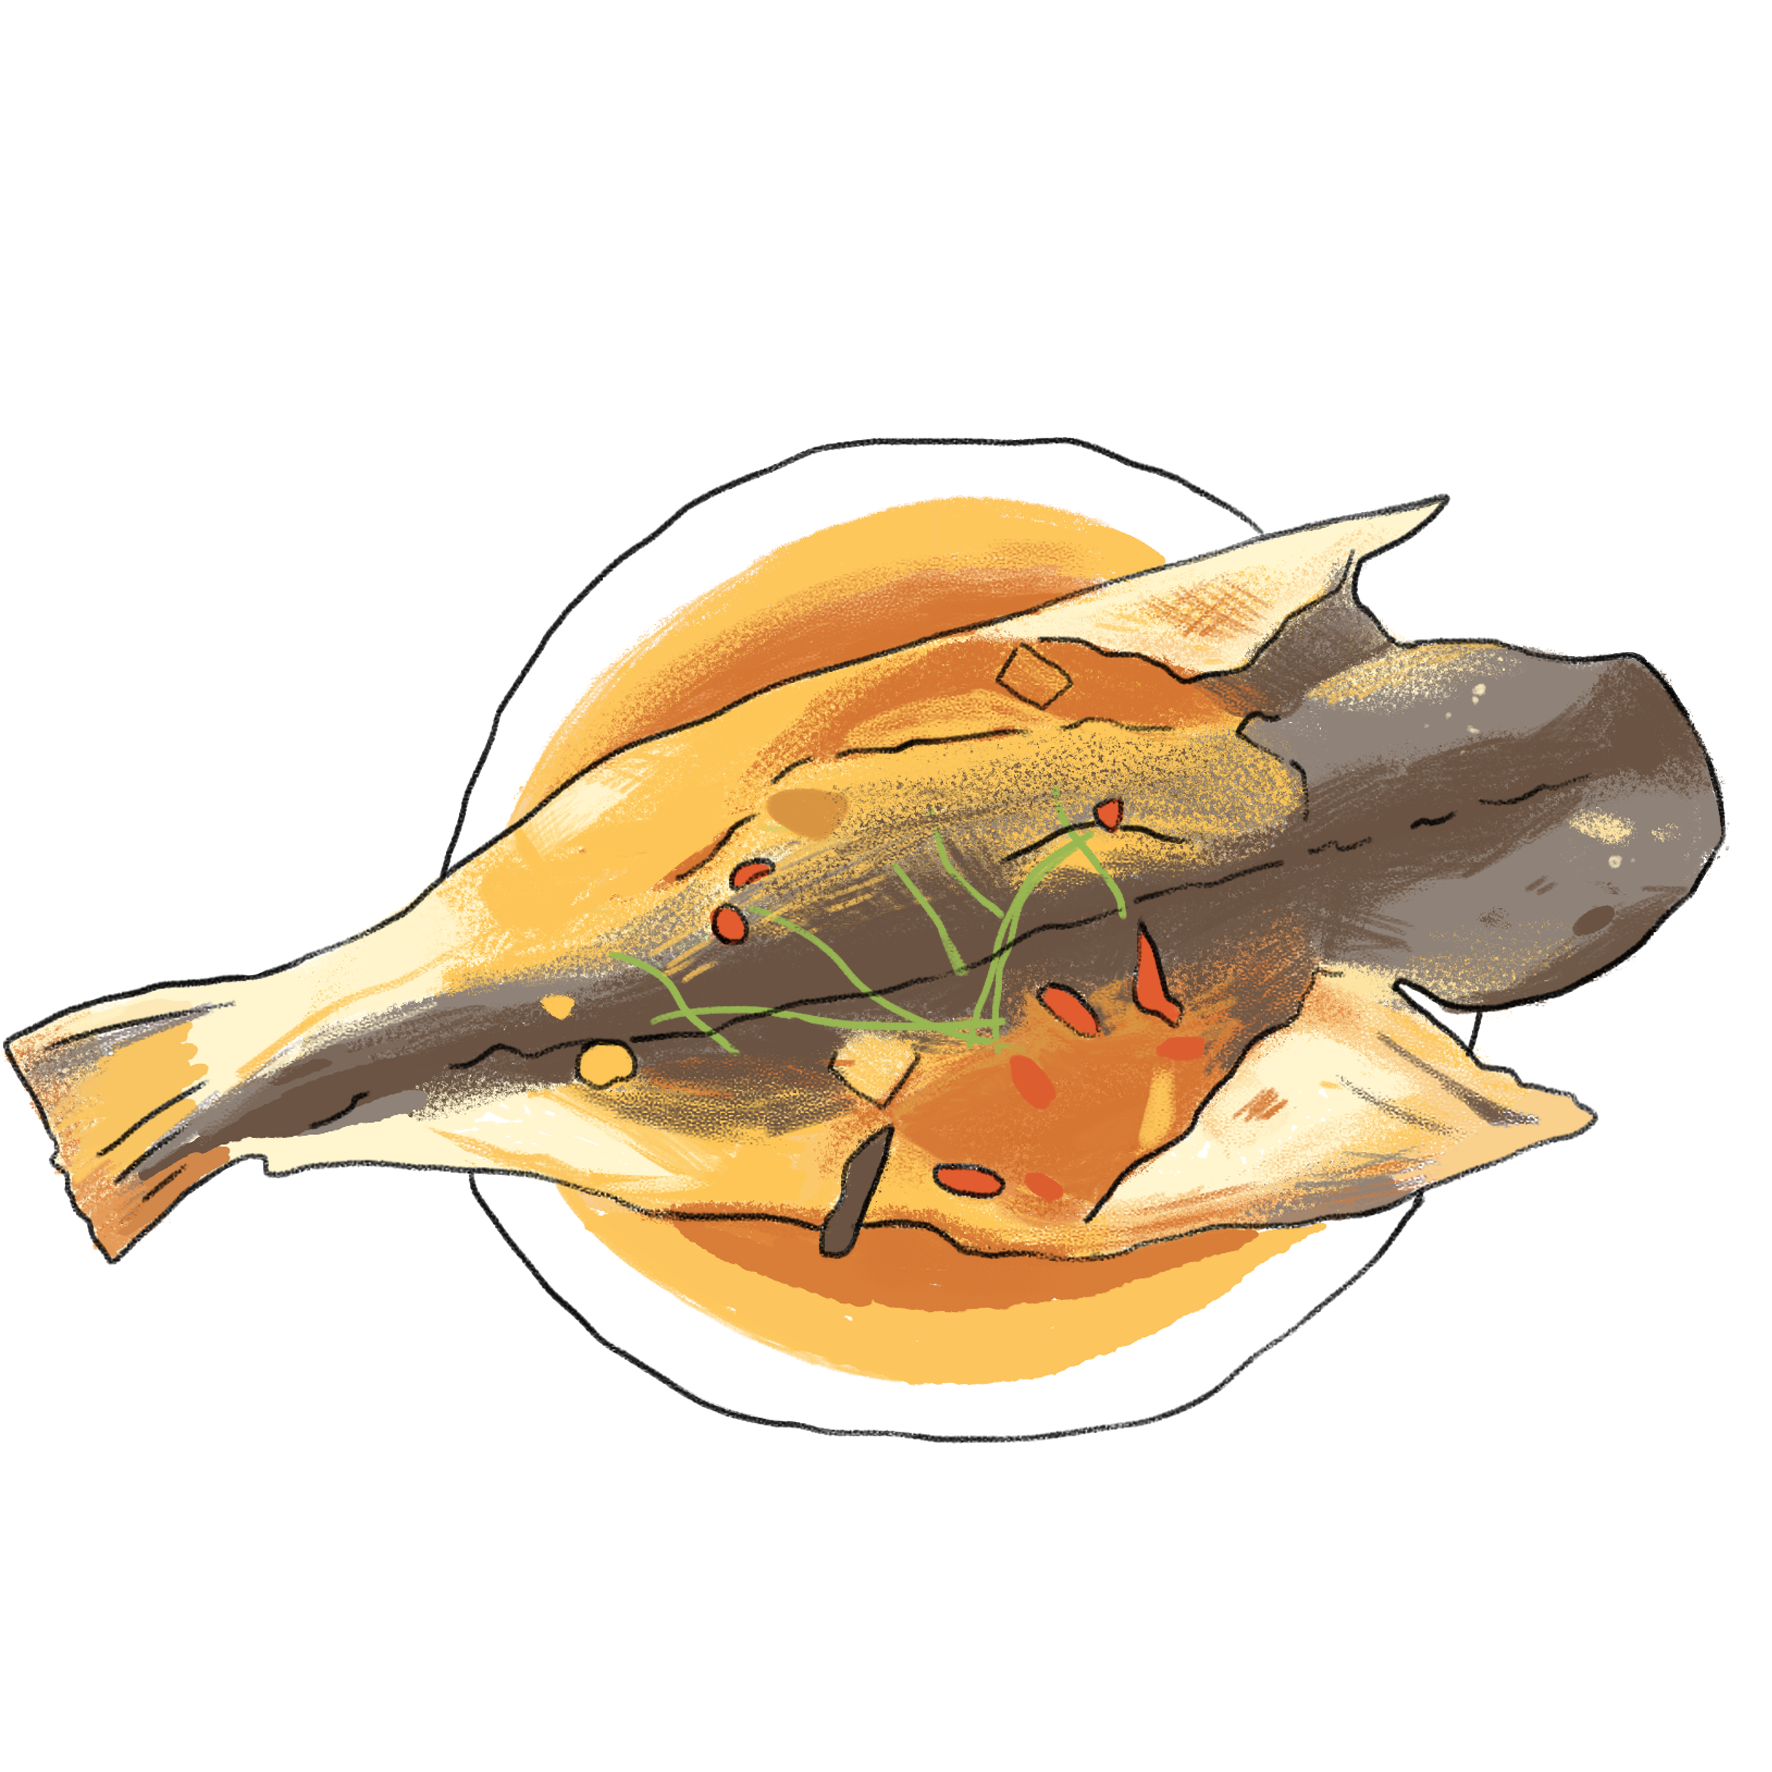
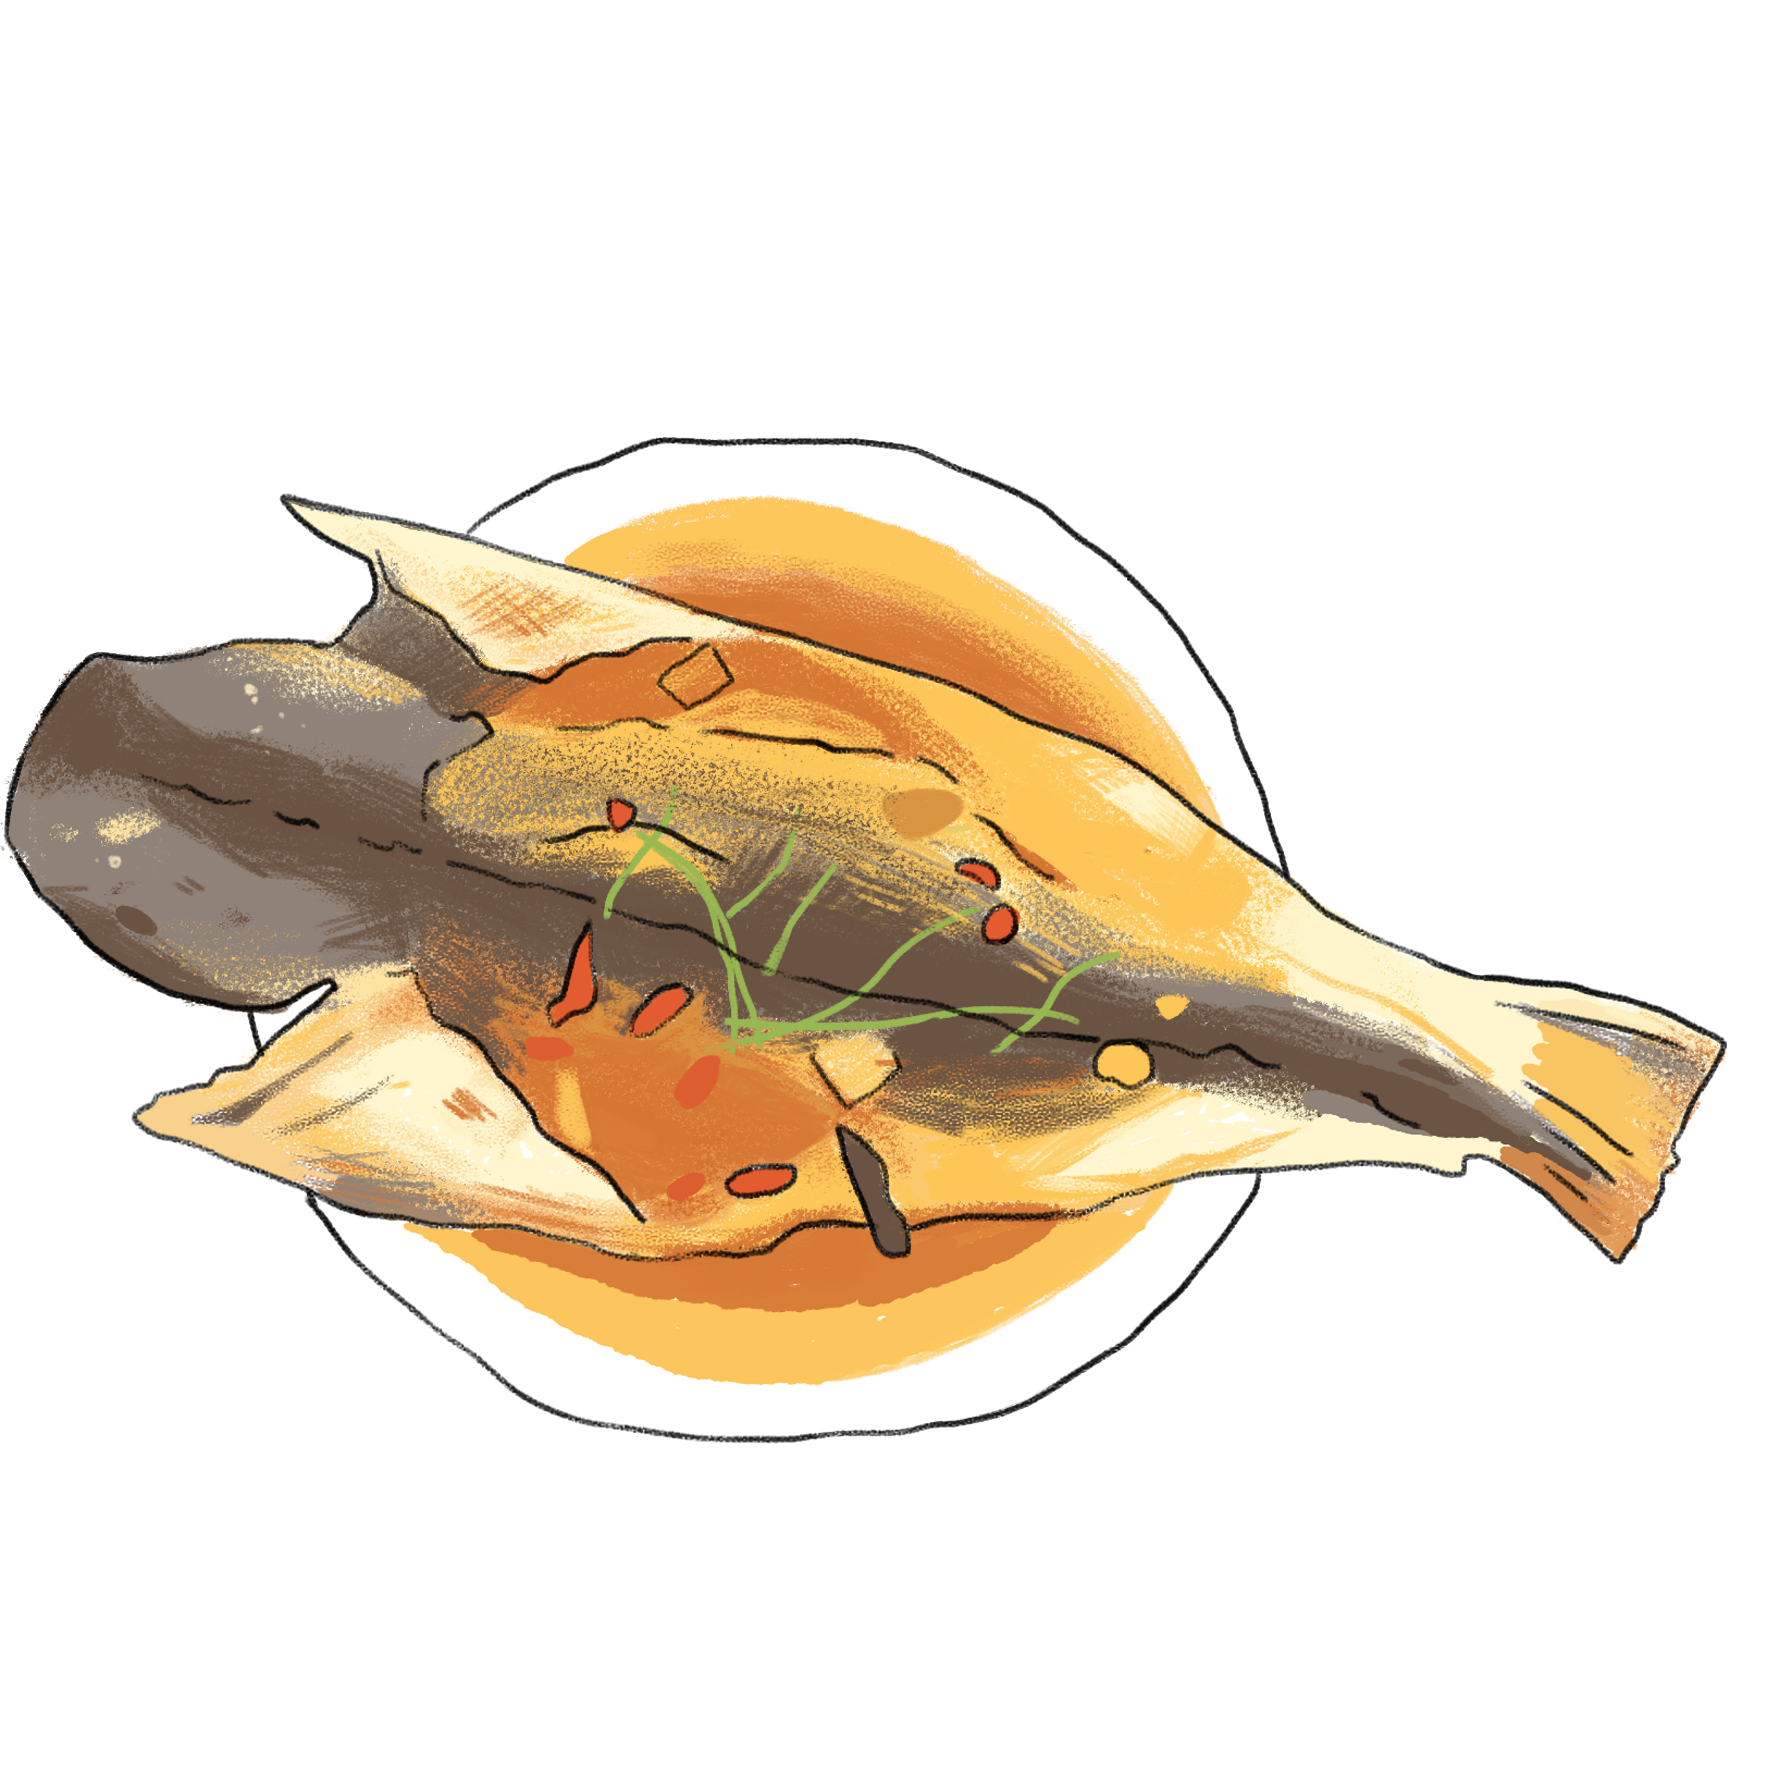
1111

diff --git a/index.html b/index.html
@@ -59,7 +59,7 @@
 
         
   <span class="ham" style="font-size:30px;cursor:pointer;color: white;" onclick="openNav()">&#9776;</span>
-  <div class="logo"><img src="img/logo.png" alt="" width="100%" height="100%"></div>
+  <a href="https://byforesea.github.io/foresea/"><div class="logo"><img src="img/logo.png" alt="" width="100%" height="100%"></div></a>
   <header>
 
 </header>
@@ -74,7 +74,7 @@
     <section class="main"><div class="titlepic">
         <img src="img/title.png" alt="" width="80%"></div><h4 class="subtitle" style="text-align:center">餐桌上的危機</h4><img class="mainpic" src="img/mainpic3.png" alt="" width="100%"></section>
     <!-- <section class="main2" style="background-color:url('img/餐桌2.png');"><h4 class="text01" style="text-align:center">餐桌上的危機</h4><img class="main2-pic1" src="img/檸檬鱸魚.png" alt="" width="40%" ><img class="main2-pic2" src="img/菜餚01.png" alt="" width="40%" ><img class="main2-pic3" src="img/菜餚02.png" alt="" width="45%" ><div class="main2-text">為您精選的海鮮套餐上桌囉</div></section> -->
-    <section class="main2"><img class="lefthand" src="img/lefthand.png" alt="" width="40%"><h4 class="text01" style="text-align:center">餐桌上的危機</h4><img data-aos="fade-up" class="main2-pic1" src="img/檸檬鱸魚.png" alt="" width="40%" ><img data-aos="fade-right" class="main2-pic2" src="img/菜餚01.png" alt="" width="40%" ><img data-aos="fade-left" class="main2-pic3" src="img/菜餚02.png" alt="" width="45%" ><img class="main2-pic5" src="img/餐巾紙_1.png" alt="" width="40%" ><img class="main2-pic4" src="img/筷子.png" alt="" width="20%" ><div class="main2-text"><img src="img/say1.png" alt="" width="140%"></div></section>
+    <section class="main2"><img class="lefthand" src="img/lefthand-arm.png" alt="" width="40%"><img class="hand" src="img/lefthand-hand.png" alt="" width="10%"><img class="sault" src="img/sault.png" alt="" width="4%"><h4 class="text01" style="text-align:center">餐桌上的危機</h4><img data-aos="fade-up" class="main2-pic1" src="img/檸檬鱸魚.png" alt="" width="40%" ><img data-aos="fade-right" class="main2-pic2" src="img/菜餚01.png" alt="" width="45%" ><img data-aos="fade-left" class="main2-pic3" src="img/菜餚02.png" alt="" width="50%" ><img class="main2-pic5" src="img/餐巾紙_1.png" alt="" width="40%" ><img class="main2-pic4" src="img/筷子.png" alt="" width="20%" ><div class="main2-text"><img src="img/say1.png" alt="" width="140%"></div></section>
     <section class="main3">
         <h4 class="main3-text1" style="text-align:center"><span style="font-size: 54px;">但</span>你知道在享用美味佳餚的時候<br>同時也在吃「塑膠」嗎？</h4>
         <div class="trash">

diff --git a/css/style.sass b/css/style.sass
@@ -54,7 +54,7 @@ body::-webkit-scrollbar
   a.logo
       margin: 0px 10px 10px 0px
       width:150px
-      height:40px 
+      height:45px 
       padding: 5px
       float: left
       display: block
@@ -230,7 +230,6 @@ body::-webkit-scrollbar
   left: 0%
   display: inline
   transform-origin: top center
-  animation: hand 1s ease-in-out infinite alternate
 
   @keyframes hand
     from
@@ -238,6 +237,31 @@ body::-webkit-scrollbar
 
     to
       transform: translateY(0px)
+
+.hand
+  position: absolute
+  z-index: 110
+  top: 24.5%
+  left: 27.7%
+  display: inline
+  transform-origin: bottom center
+  animation: hand 1s ease-in-out infinite alternate
+
+@keyframes hand
+    from
+      transform: rotate(2deg)
+
+    to
+      transform: rotate(-2deg)
+
+.sault
+  position: absolute
+  z-index: 110
+  top: 50%
+  left: 34%
+  display: inline
+
+
 
 .test
   z-index: -99
@@ -252,6 +276,7 @@ body::-webkit-scrollbar
   z-index: -99
   height: 200vh
   border-radius:50px 50px 0px 0px
+  z-index: -99
 
 
 .main2-pic1
@@ -271,10 +296,11 @@ body::-webkit-scrollbar
 
 .main2-pic3
   position: absolute
-  right: 5%
+  right: 0%
   margin-top:-10%
   float: right
   z-index: 99
+  transform: rotate(180deg)
   
 
 .main2-text
@@ -297,6 +323,9 @@ body::-webkit-scrollbar
   right: -15%
   bottom: -165%
   z-index: 99
+
+
+
 
 .main3
   width:100vw

diff --git a/css/style.css b/css/style.css
@@ -46,7 +46,7 @@ body::-webkit-scrollbar {
 #navbar a.logo {
   margin: 0px 10px 10px 0px;
   width: 150px;
-  height: 40px;
+  height: 45px;
   padding: 5px;
   float: left;
   display: block;
@@ -200,7 +200,6 @@ body::-webkit-scrollbar {
   left: 0%;
   display: inline;
   transform-origin: top center;
-  animation: hand 1s ease-in-out infinite alternate;
 }
 @keyframes hand {
   from {
@@ -209,6 +208,32 @@ body::-webkit-scrollbar {
   to {
     transform: translateY(0px);
   }
+}
+
+.hand {
+  position: absolute;
+  z-index: 110;
+  top: 24.5%;
+  left: 27.7%;
+  display: inline;
+  transform-origin: bottom center;
+  animation: hand 1s ease-in-out infinite alternate;
+}
+
+@keyframes hand {
+  from {
+    transform: rotate(2deg);
+  }
+  to {
+    transform: rotate(-2deg);
+  }
+}
+.sault {
+  position: absolute;
+  z-index: 110;
+  top: 50%;
+  left: 34%;
+  display: inline;
 }
 
 .test {
@@ -222,6 +247,7 @@ body::-webkit-scrollbar {
   z-index: -99;
   height: 200vh;
   border-radius: 50px 50px 0px 0px;
+  z-index: -99;
 }
 
 .main2-pic1 {
@@ -241,10 +267,11 @@ body::-webkit-scrollbar {
 
 .main2-pic3 {
   position: absolute;
-  right: 5%;
+  right: 0%;
   margin-top: -10%;
   float: right;
   z-index: 99;
+  transform: rotate(180deg);
 }
 
 .main2-text {
